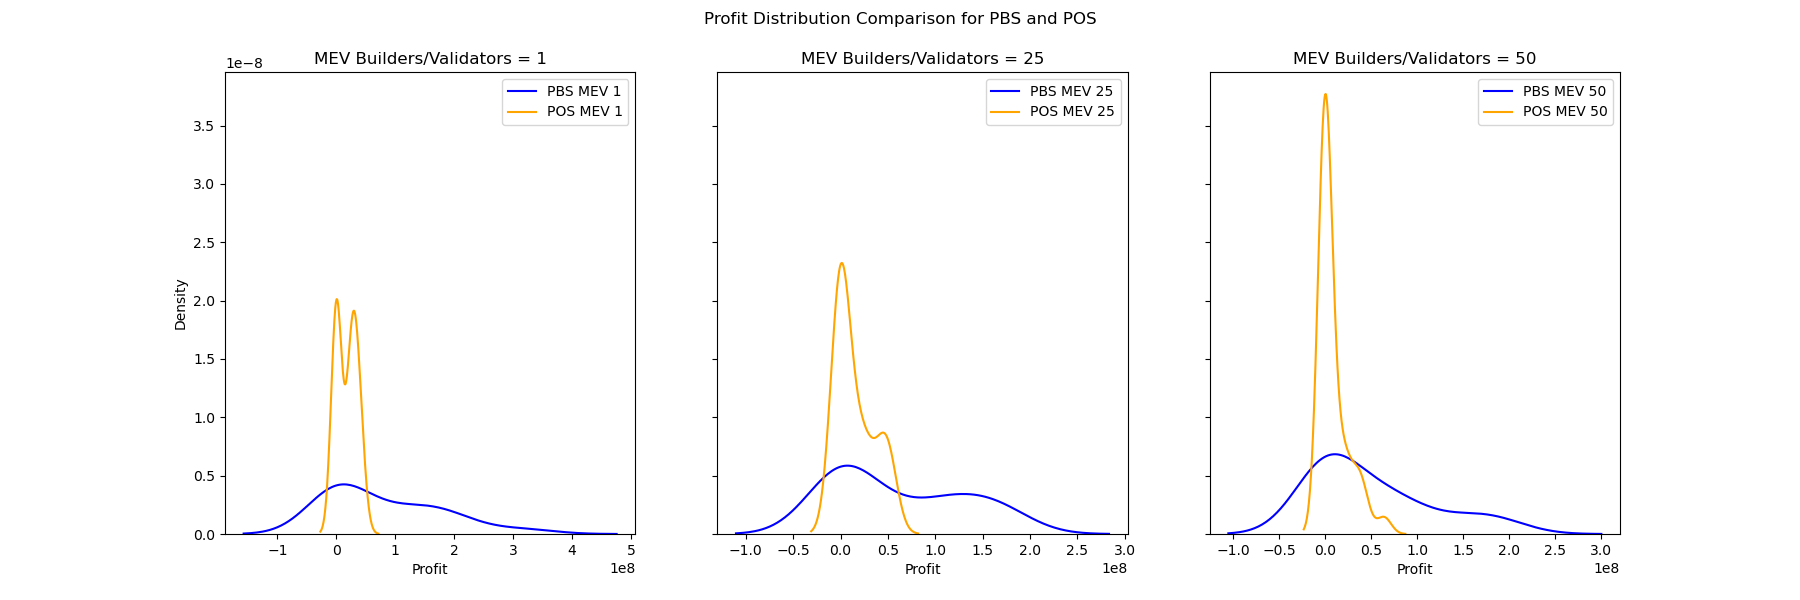
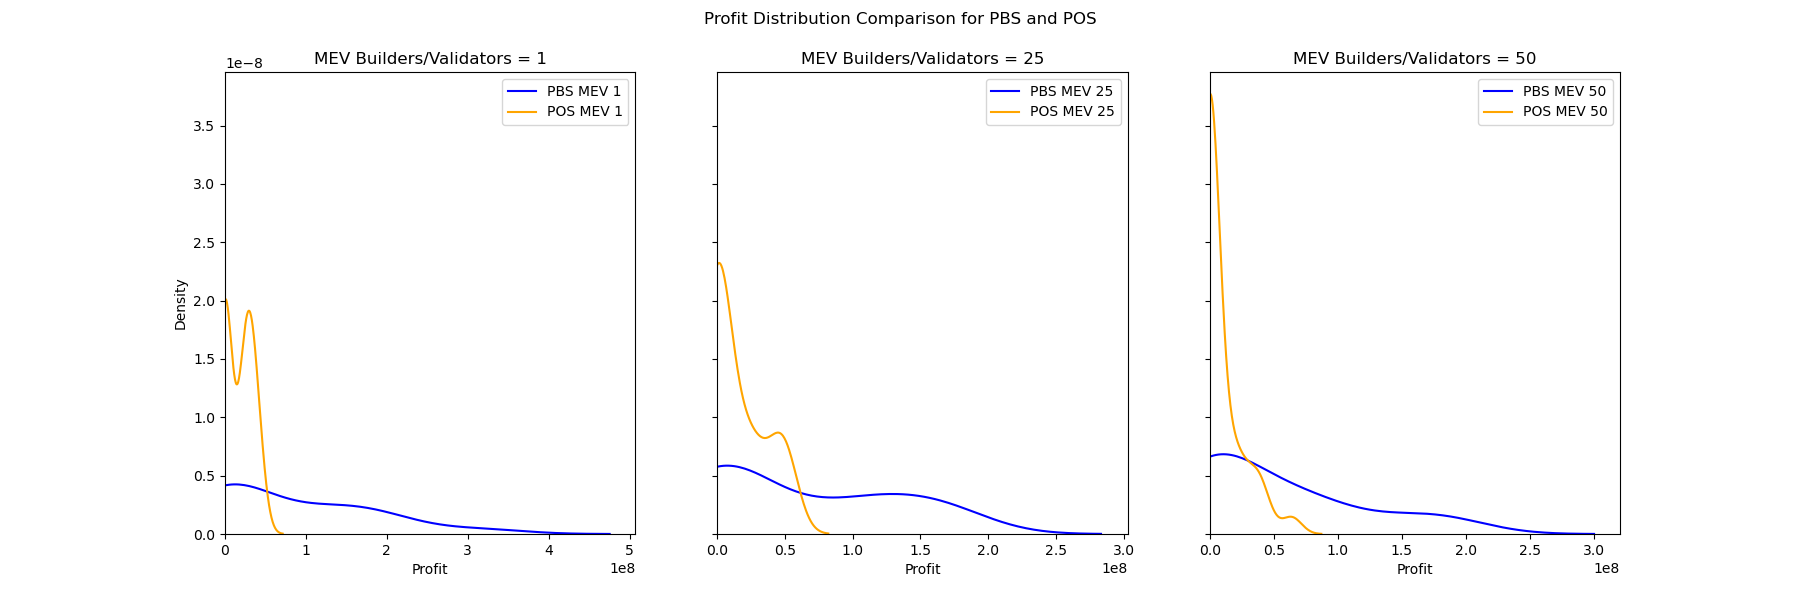
axis

diff --git a/plots/new/vary_mev_plots.py b/plots/new/vary_mev_plots.py
@@ -30,6 +30,10 @@ def load_profits(data_dir, mev_counts):
             pbs_profits = pbs_df.groupby('creator_id')['fee'].sum().values
             pos_profits = pos_df.groupby('creator_id')['fee'].sum().values
 
+            # Remove negative profits
+            pbs_profits = pbs_profits[pbs_profits >= 0]
+            pos_profits = pos_profits[pos_profits >= 0]
+
             profits['pbs'][mev_count] = pbs_profits
             profits['pos'][mev_count] = pos_profits
         else:
@@ -76,8 +80,8 @@ def plot_gini_coefficient(data_dir, mev_counts):
     ax.grid(True)
     ax.xaxis.grid(True)
     ax.yaxis.grid(True)
-    ax.yaxis.grid(True, which='both', linestyle='--', linewidth=0.7)
     ax.xaxis.grid(False) 
+    ax.yaxis.grid(True, which='both', linestyle='--', linewidth=0.7)
 
     plt.savefig('figures/new/smooth_gini_coefficient.png')
     plt.close()
@@ -93,24 +97,27 @@ def plot_profit_distribution(data_dir, mev_counts_to_plot):
         for system, color in zip(systems, colors):
             if mev_count in profits[system]:
                 valid_profits = profits[system][mev_count][profits[system][mev_count] >= 0]
+                valid_profits = valid_profits[valid_profits >= 0]  # Ensure no negative values
+                print(f"{system.upper()} MEV {mev_count} valid profits: {valid_profits}")  # Debug print
                 if len(valid_profits) > 0:
                     sns.kdeplot(valid_profits, ax=axes[i], label=f'{system.upper()} MEV {mev_count}', color=color)
         
         axes[i].set_title(f'MEV Builders/Validators = {mev_count}')
         axes[i].set_xlabel('Profit')
         axes[i].legend()
+        axes[i].set_xlim(left=0)  # Set the x-axis to start at 0
 
     axes[0].set_ylabel('Density')
     fig.suptitle('Profit Distribution Comparison for PBS and POS')
     plt.savefig('figures/new/profit_distribution_comparison.png')
     plt.close()
 
-
 if __name__ == "__main__":
+
     data_dir = 'data/vary_mev'
-    mev_counts = [1, 5, 10, 15, 20, 25, 30, 35, 40, 45, 50]
-    
-    plot_gini_coefficient(data_dir, mev_counts)
+
+    # mev_counts = [1, 5, 10, 15, 20, 25, 30, 35, 40, 45, 50]
+    # plot_gini_coefficient(data_dir, mev_counts)
     
     mev_counts_to_plot = [1, 25, 50]
     plot_profit_distribution(data_dir, mev_counts_to_plot)
